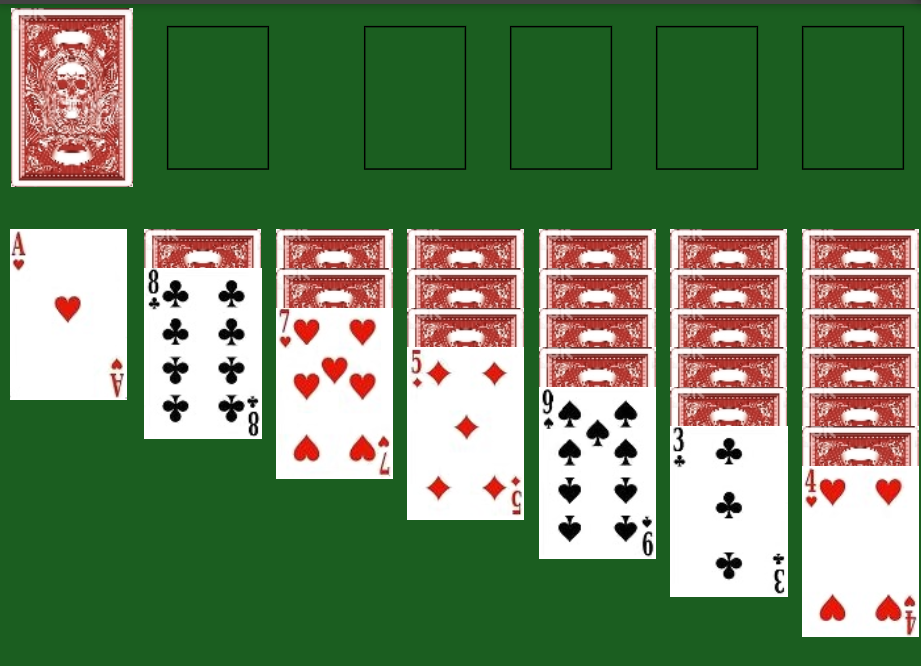
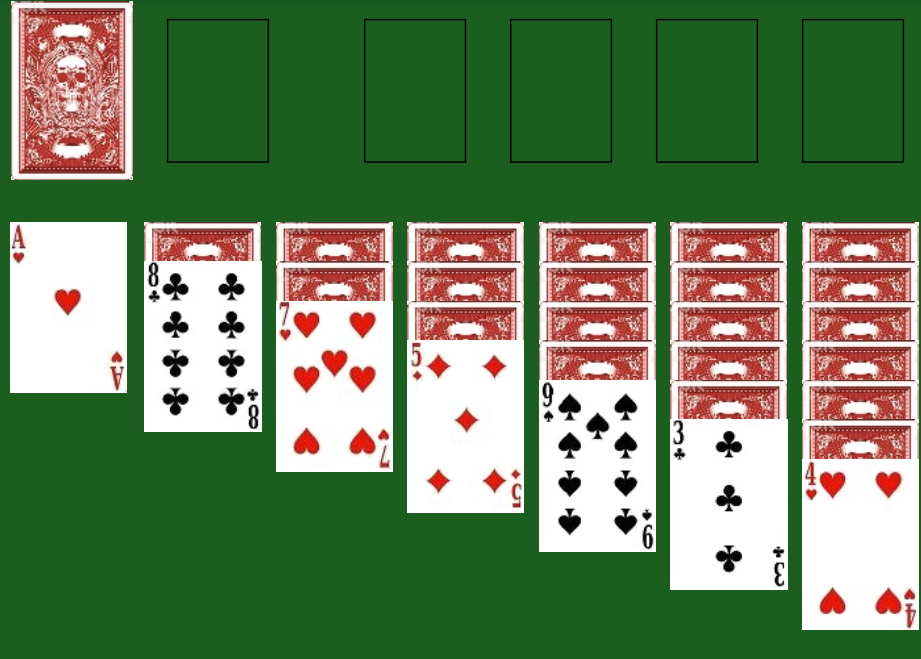
-Draw Multiple First Bug Fix -Karten Movement verhindert -Draw Stapel leer erkennbar gemacht -Höhe vom Spielfeld erweitert um keine Karten mehr abzuschneiden

diff --git a/lib/spielen.dart b/lib/spielen.dart
@@ -24,6 +24,7 @@ class _PlayPageState extends State<PlayPage> {
   var oberklasse = new KartenDeck();
   var kartendeck;
 
+  final streamRuecken = StreamController<Karte?>();
   final streamDraw = StreamController<Karte>();
   final streamEmptyDraw = StreamController<Karte>();
   final streamAblage1 = StreamController<Karte?>();
@@ -553,6 +554,7 @@ class _PlayPageState extends State<PlayPage> {
   void dispose() async {
     super.dispose();
     await _stopWatchTimer.dispose();
+    streamRuecken.close();
     streamDraw.close();
     streamEmptyDraw.close();
     streamAblage1.close();
@@ -767,7 +769,11 @@ class _PlayPageState extends State<PlayPage> {
               Stack(
                 alignment: Alignment.topCenter,
                 children: [
-                 FittedBox(
+                  Positioned(
+                    top: 10,
+                    child: Container(
+                      width: MediaQuery.of(context).size.width,
+                      child: FittedBox(
                   fit: BoxFit.fitWidth,
                   alignment: Alignment.topCenter,
                   child: Container(
@@ -781,21 +787,44 @@ class _PlayPageState extends State<PlayPage> {
                           mainAxisAlignment: MainAxisAlignment.start,
                           children: [
                             Container(
-                              width: 100,
-                              child: ElevatedButton(
-                                style: ElevatedButton.styleFrom(
-                                    primary: Colors.transparent,
-                                    shadowColor: Colors.transparent),
-                                onPressed: () {
-                                  this.oberklasse.topStapelClick(this);
-                                  streamDraw.add(this.oberklasse.gibStapelKarte());
-                                },
-                                child: Image.asset('playcards/ruecken.JPG'),
-                              ),
-                            ),
-                            Container(
-                              width: 100,
+                              width: 120,
+                              height: 150,
                               child: StreamBuilder(
+                              stream: streamRuecken.stream,
+                                builder: (BuildContext context,
+                                    AsyncSnapshot<dynamic> snapshot) {
+                                  final card = snapshot.data;
+                                  if (snapshot.hasData) {
+                                    if (snapshot.data.wert == 42) {
+                                      return Container(
+                                        margin: const EdgeInsets.all(15.0),
+                                        padding: const EdgeInsets.all(3.0),
+                                        decoration: BoxDecoration(
+                                            border: Border.all(
+                                                color: Colors.black)
+                                        ),
+                                        child: Image.asset(
+                                            'playcards/versuch.png'),
+                                      );
+                                    }
+                                  }
+                                  return ElevatedButton(
+                                    style: ElevatedButton.styleFrom(
+                                        primary: Colors.transparent,
+                                        shadowColor: Colors.transparent),
+                                    onPressed: () {
+                                      this.oberklasse.topStapelClick(this);
+                                      streamDraw.add(this.oberklasse.gibStapelKarte());
+                                    },
+                                    child: Image.asset('playcards/ruecken.JPG'),
+                                  );
+                                }
+                                ),
+                                  ),
+                                Container(
+                                width: 120,
+                                height: 150,
+                                child: StreamBuilder(
                                   stream: streamDraw.stream,
                                   builder: (BuildContext context,
                                       AsyncSnapshot<dynamic> snapshot) {
@@ -828,7 +857,8 @@ class _PlayPageState extends State<PlayPage> {
                           mainAxisAlignment: MainAxisAlignment.end,
                           children: [
                             Container(
-                              width: 100,
+                              width: 120,
+                              height: 150,
                               child: StreamBuilder(
                                   stream: streamAblage1.stream,
                                   builder: (BuildContext context,
@@ -855,7 +885,8 @@ class _PlayPageState extends State<PlayPage> {
                                   }),
                             ),
                             Container(
-                              width: 100,
+                              width: 120,
+                              height: 150,
                               child: StreamBuilder(
                                   stream: streamAblage2.stream,
                                   builder: (BuildContext context,
@@ -882,7 +913,8 @@ class _PlayPageState extends State<PlayPage> {
                                   }),
                             ),
                             Container(
-                              width: 100,
+                              width: 120,
+                              height: 150,
                               child: StreamBuilder(
                                   stream: streamAblage3.stream,
                                   builder: (BuildContext context,
@@ -909,7 +941,8 @@ class _PlayPageState extends State<PlayPage> {
                                   }),
                             ),
                             Container(
-                              width: 100,
+                              width: 120,
+                              height: 150,
                               child: StreamBuilder(
                                   stream: streamAblage4.stream,
                                   builder: (BuildContext context,
@@ -941,6 +974,8 @@ class _PlayPageState extends State<PlayPage> {
                     ),
                   ),
                 ),
+                    ),
+                  ),
               //Deck
                 Positioned(
                     top: 150,
@@ -950,7 +985,7 @@ class _PlayPageState extends State<PlayPage> {
                     fit: BoxFit.fitWidth,
                     alignment: Alignment.topCenter,
                     child: Container(
-                      height: 500,
+                      height: 700,
                       alignment: Alignment.topCenter,
                       child: Row(
                         mainAxisAlignment: MainAxisAlignment.spaceEvenly,
@@ -959,7 +994,7 @@ class _PlayPageState extends State<PlayPage> {
                           Stack(
                             alignment: Alignment.topCenter, children: [
                             Container(
-                              width: 100,
+                              width: 120,
                               child: StreamBuilder(
                                 stream: stream1_1.stream,
                                 builder: (BuildContext context,
@@ -1402,7 +1437,7 @@ class _PlayPageState extends State<PlayPage> {
                           Stack(
                             alignment: Alignment.topCenter, children: [
                             Container(
-                                width: 100,
+                                width: 120,
                                 child: StreamBuilder(
                                     stream: stream2_1.stream,
                                     builder: (BuildContext context,
@@ -1883,7 +1918,7 @@ class _PlayPageState extends State<PlayPage> {
                           //Stapel3
                           Stack(alignment: Alignment.topCenter, children: [
                             Container(
-                                width: 100,
+                                width: 120,
                                 child: StreamBuilder(
                                     stream: stream3_1.stream,
                                     builder: (BuildContext context,
@@ -2396,7 +2431,7 @@ class _PlayPageState extends State<PlayPage> {
                           //Stapel4
                           Stack(alignment: Alignment.topCenter, children: [
                             Container(
-                                width: 100,
+                                width: 120,
                                 child: StreamBuilder(
                                     stream: stream4_1.stream,
                                     builder: (BuildContext context,
@@ -2942,7 +2977,7 @@ class _PlayPageState extends State<PlayPage> {
                           //Stapel5
                           Stack(alignment: Alignment.topCenter, children: [
                             Container(
-                                width: 100,
+                                width: 120,
                                 child: StreamBuilder(
                                     stream: stream5_1.stream,
                                     builder: (BuildContext context,
@@ -3521,7 +3556,7 @@ class _PlayPageState extends State<PlayPage> {
                           //Stapel6
                           Stack(alignment: Alignment.topCenter, children: [
                             Container(
-                                width: 100,
+                                width: 120,
                                 child: StreamBuilder(
                                     stream: stream6_1.stream,
                                     builder: (BuildContext context,
@@ -4131,7 +4166,7 @@ class _PlayPageState extends State<PlayPage> {
                           //Stapel7
                           Stack(alignment: Alignment.topCenter, children: [
                             Container(
-                                width: 100,
+                                width: 120,
                                 child: StreamBuilder(
                                     stream: stream7_1.stream,
                                     builder: (BuildContext context,

diff --git a/lib/karte.dart b/lib/karte.dart
@@ -69,6 +69,7 @@ class KartenDeck {
   int zuegeCounter = 0;
 
   var spielen;
+  var firstRemoved = false;
   Karte leer = new Karte(42, "Herz");
   List<String> zeichenList = ["herz", "karo", "kreuz", "pik"];
 
@@ -178,6 +179,17 @@ class KartenDeck {
     if (this.karten.length > 0) {
       this.karten.removeAt(this.kartenIndex-1);
     }
+    if (this.firstRemoved && this.kartenIndex == 2) {
+      this.kartenIndex--;
+    }
+    this.firstRemoved = false;
+    if(kartenIndex == 1) {
+      this.firstRemoved = true;
+      this.kartenIndex--;
+    }
+    if (this.karten.length == 0) {
+      this.spielen.streamRuecken.add(new Karte(42, "Herz"));
+    }
   }
 
   topStapelClick(context) {
@@ -190,8 +202,15 @@ class KartenDeck {
         this.anzeigeKarte.add(new Karte(42, "Herz"));
       }
       else {
-        this.anzeigeKarte.add(this.karten[this.kartenIndex]);
-        this.kartenIndex++;
+        if(this.firstRemoved) {
+          this.anzeigeKarte.add(this.karten[0]);
+          this.firstRemoved = false;
+        }
+        else {
+          this.anzeigeKarte.add(this.karten[this.kartenIndex]);
+          this.kartenIndex++;
+        }
+
       }
     }
   }
@@ -308,6 +327,7 @@ class KartenDeck {
     this.fertig3.add(this.findeRichtigesZeichen(this.fertig3));
     this.fertig4.add(this.findeRichtigesZeichen(this.fertig4));
     this.spielen.streamEmptyDraw.add(new Karte(42, "Herz"));
+    this.spielen.streamRuecken.add(new Karte(42, "Herz"));
   }
 
   void loesbar() {
